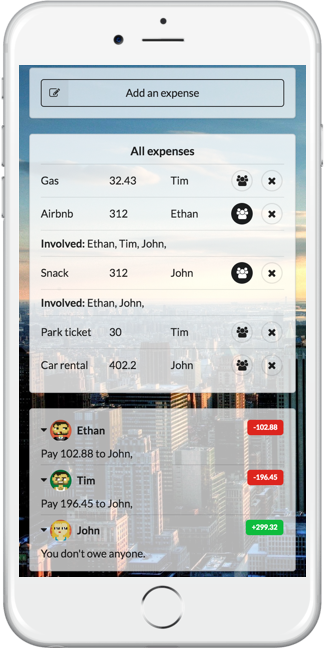
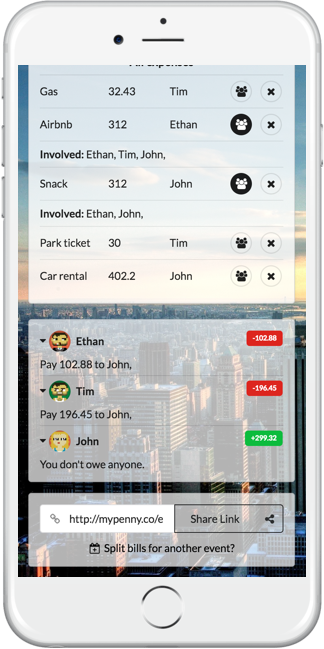
share link tutorial

Changed region(s): [[0.0309, 0.0924, 0.9568, 0.8937], [0.1235, 0.3698, 0.6173, 0.4314], [0.8333, 0.2773, 0.8642, 0.339]]

diff --git a/scripts/common/containers/WelcomeContainer.js b/scripts/common/containers/WelcomeContainer.js
@@ -57,7 +57,7 @@ class WelcomeContainer extends Component {
 							<Divider style={{marginTop: '20px'}}/>
 							<Image style={{margin:'auto', marginBottom: '30px', marginTop: '30px', display: 'block'}} src={require('../../../assets/images/tutorial_3.png')} size='small'
 							label={{ as: 'a', color: 'blue', content: 'Step 3', ribbon: true }}/>
-							At the bottom, the settlement instruction is automatically calculated for you
+							The settlement instruction is automatically calculated for you. Keep the link and share with your friends!
 							<Button onClick={this.goToCreation.bind(this)} style={{margin:'auto', display:'block', marginTop: '20px'}} basic color='black' content='Try it now' icon='signup' labelPosition='left'/>
 						</div>
 					)}/>
@@ -74,7 +74,7 @@ class WelcomeContainer extends Component {
 							<Divider  style={{marginTop: '40px'}}/>
 							<Image style={{margin:'auto', marginBottom: '50px', marginTop: '50px', display: 'block'}} src={require('../../../assets/images/tutorial_3.png')} size='medium'
 							label={{ as: 'a', color: 'blue', content: 'Step 3', ribbon: true, size: 'large' }}/>
-							<p style={{fontSize: '120%'}}>At the bottom, the settlement instruction is automatically calculated for you</p>
+							<p style={{fontSize: '120%'}}>The settlement instruction is automatically calculated for you. Keep the link and share with your friends!</p>
 							<Button onClick={this.goToCreation.bind(this)} style={{margin:'auto', display:'block', marginTop: '50px'}} basic color='black' content='Try it now' icon='signup' labelPosition='left'/>
 						</div>
 					)}/>
